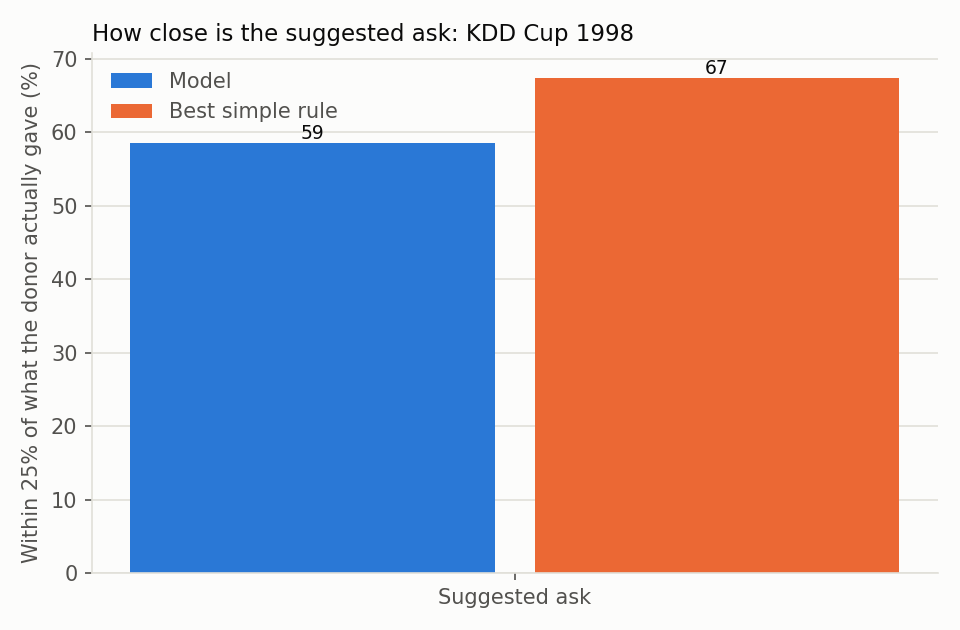
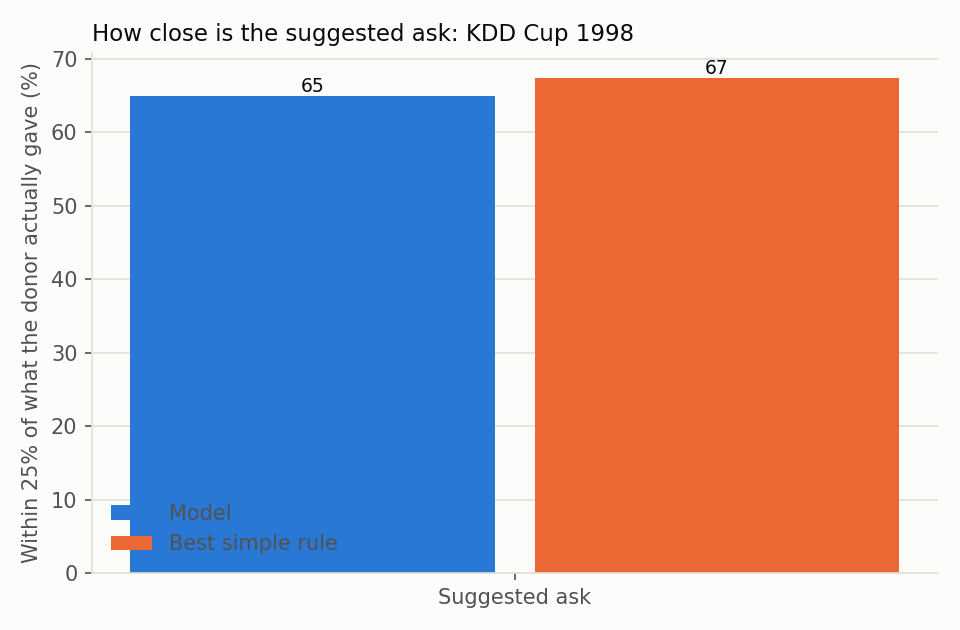
Default AskAmountRecommender to absolute-error loss
Ask amounts are right-skewed (many small gifts, a few large ones), and the
squared-error HistGradientBoostingRegressor was fitting the conditional
mean, which overshoots most donors. AskAmountRecommender now takes a loss
parameter passed through to the regressor, defaulting to "absolute_error"
(the conditional median).

Chosen on the KDD Cup 1998 validation split (55/15/30, two configurations
compared): validation MAE $4.19 vs $4.72 for squared error. On the test
split, computed once after that choice, MAE drops from $4.56 to $4.11 and
suggestions within 25% of the actual gift go from 58.6% to 65.0%. It still
trails the best simple rule (max of last gift and average gift, 67.4%), so
the Suggested ask page keeps "use the rule instead", with updated numbers.

The cost-aware "Who to mail" benchmark multiplies response probability by
expected gift, which needs the mean, so it now passes loss="squared_error"
explicitly and its numbers are unchanged.

Changed region(s): [[0.0938, 0.0905, 0.5312, 0.2413], [0.0938, 0.7841, 0.3438, 0.8746]]

diff --git a/philanthropy/models/_ask.py b/philanthropy/models/_ask.py
@@ -93,6 +93,12 @@ class AskAmountRecommender(RegressorMixin, BaseEstimator):
     min_samples_leaf : int, default=20
         Minimum number of samples per leaf.  Larger values prevent
         overfitting on sparse major-donor training sets.
+    loss : {"squared_error", "absolute_error"}, default="absolute_error"
+        Loss function for the backend ``HistGradientBoostingRegressor``.
+        Ask amounts are right-skewed (a few large gifts, many small ones),
+        and squared error fits the conditional *mean*, which overshoots most
+        donors; absolute error fits the conditional *median* instead, which
+        tracks a typical ask more closely.
     random_state : int or None, default=None
         Seed for the internal random-number generator.  Set to an integer
         for reproducible model artefacts suitable for audit trails.
@@ -168,6 +174,7 @@ class AskAmountRecommender(RegressorMixin, BaseEstimator):
         max_depth: Optional[int] = None,
         l2_regularization: float = 0.0,
         min_samples_leaf: int = 20,
+        loss: str = "absolute_error",
         random_state: Optional[int] = None,
         ask_floor: float = 1.0,
     ) -> None:
@@ -177,6 +184,7 @@ class AskAmountRecommender(RegressorMixin, BaseEstimator):
         self.max_depth = max_depth
         self.l2_regularization = l2_regularization
         self.min_samples_leaf = min_samples_leaf
+        self.loss = loss
         self.random_state = random_state
         self.ask_floor = ask_floor
 
@@ -207,6 +215,7 @@ class AskAmountRecommender(RegressorMixin, BaseEstimator):
             max_depth=self.max_depth,
             l2_regularization=self.l2_regularization,
             min_samples_leaf=self.min_samples_leaf,
+            loss=self.loss,
             random_state=self.random_state,
         )
         self.estimator_.fit(X, y)

diff --git a/scripts/benchmark_models_vs_baselines.py b/scripts/benchmark_models_vs_baselines.py
@@ -877,7 +877,8 @@ def bench_kdd_cost_aware(seed: int, cost: float = 0.68) -> List[Row]:
 
     ask_model = make_pipeline(
         WealthScreeningImputer(wealth_cols=["WEALTH1", "WEALTH2", "INCOME"]),
-        AskAmountRecommender(random_state=seed),
+        # Expected gift needs the conditional mean, not the ask default's median.
+        AskAmountRecommender(loss="squared_error", random_state=seed),
     ).fit(Xd_train[responders_train], yd_train[responders_train])
     expected_gift = p_respond * ask_model.predict(Xd_test)
     mail = expected_gift > cost

diff --git a/CHANGELOG.md b/CHANGELOG.md
@@ -87,6 +87,23 @@ Format: [Keep a Changelog](https://keepachangelog.com/en/1.1.0/)
   they can look broken even when the model ranks donors well.
 
 ### Changed
+- `AskAmountRecommender(loss=...)`: a new parameter passed through to the
+  backend `HistGradientBoostingRegressor`, default changed from
+  `"squared_error"` to `"absolute_error"`. Ask amounts are right-skewed (a
+  few big gifts, many small ones), and squared error was fitting the
+  conditional mean, which overshoots most donors; absolute error fits the
+  median instead. Chosen on the KDD Cup 1998 validation split (55/15/30):
+  absolute error's validation MAE ($4.19) beat squared error's ($4.72), and
+  on the held-out test split absolute error's MAE ($4.11, 65 of every 100
+  suggestions within 25% of the actual gift) beats the old default's ($4.56,
+  59 of 100). It still does not beat the best ask rule on this file (max of
+  last gift and average gift, $3.88 MAE, 67 of 100), so the Results page
+  keeps its "use the rule instead" verdict, just with the updated numbers.
+  The "Who to mail" cost-aware selection multiplies response probability by
+  expected gift size, which needs the conditional mean, so the benchmark
+  now passes `loss="squared_error"` there explicitly and that page's numbers
+  are unchanged. `docs/results/ask.md` and `docs/assets/results/results.json`
+  are regenerated in this PR.
 - `scripts/benchmark_models_vs_baselines.py` now pairs every model with a
   fixed set of 2-4 named baseline rules (e.g. lapse: LYBUNT/SYBUNT flag,
   years since last gift, shortest giving streak, gave nothing last period)

diff --git a/docs/results/ask.md b/docs/results/ask.md
@@ -4,7 +4,7 @@ Featured on a real donor file: [KDD Cup 1998](https://kdd.ics.uci.edu/databases/
 We pretended it was 1 June 1997 and asked the model to suggest an amount for
 each donor who went on to give.
 
-Of every 100 suggested amounts, 59 landed within 25% of what the donor
+Of every 100 suggested amounts, 65 landed within 25% of what the donor
 actually gave. The best of the simple rules we compare against here, the
 higher of what they gave last time or their average gift, landed within 25%
 for 67 out of every 100.
@@ -18,7 +18,7 @@ simple rule is a better guess than the model's suggestion.
 
 Real file: [KDD Cup 1998](https://kdd.ics.uci.edu/databases/kddcup98/kddcup98.html).
 On our sample (synthetic) donor panel the model also does not beat the best
-simple rule (about 20 in 100 within 25%, versus about 24 in 100 for the best
+simple rule (about 23 in 100 within 25%, versus about 24 in 100 for the best
 of last gift, max(last gift, average gift), and the median training gift);
 use the simple rule on both kinds of data. Results on your own data will
 differ from both.
